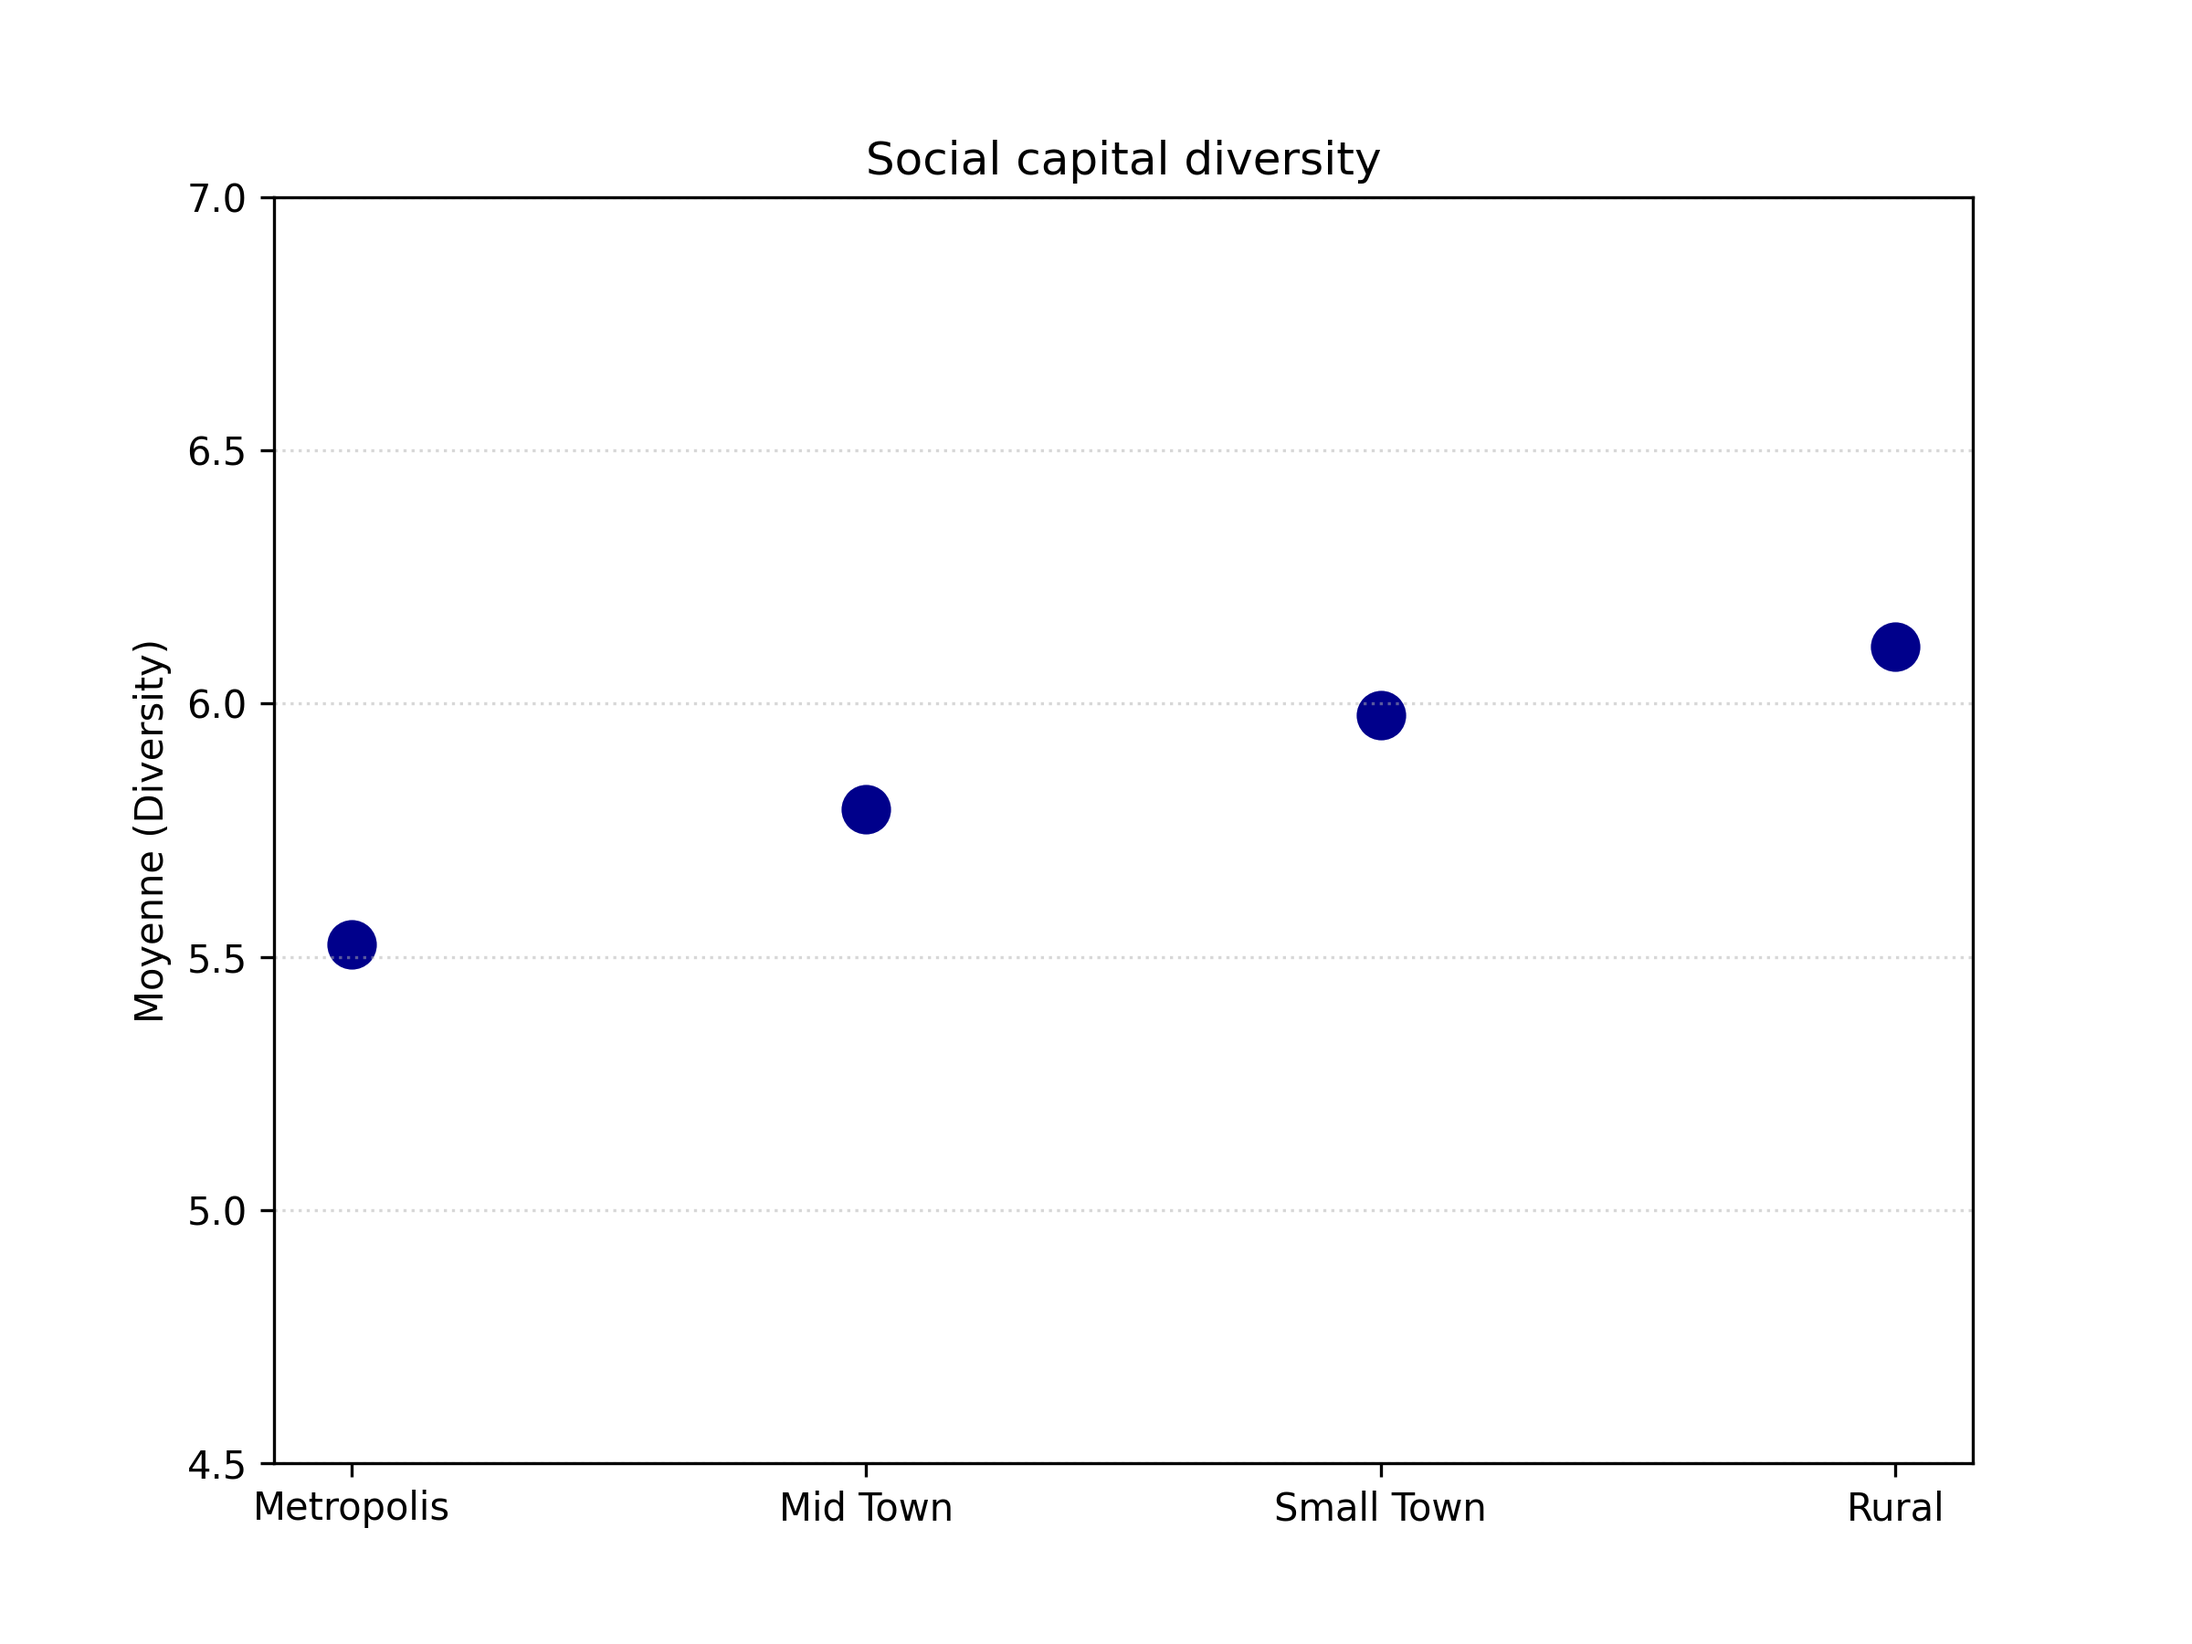
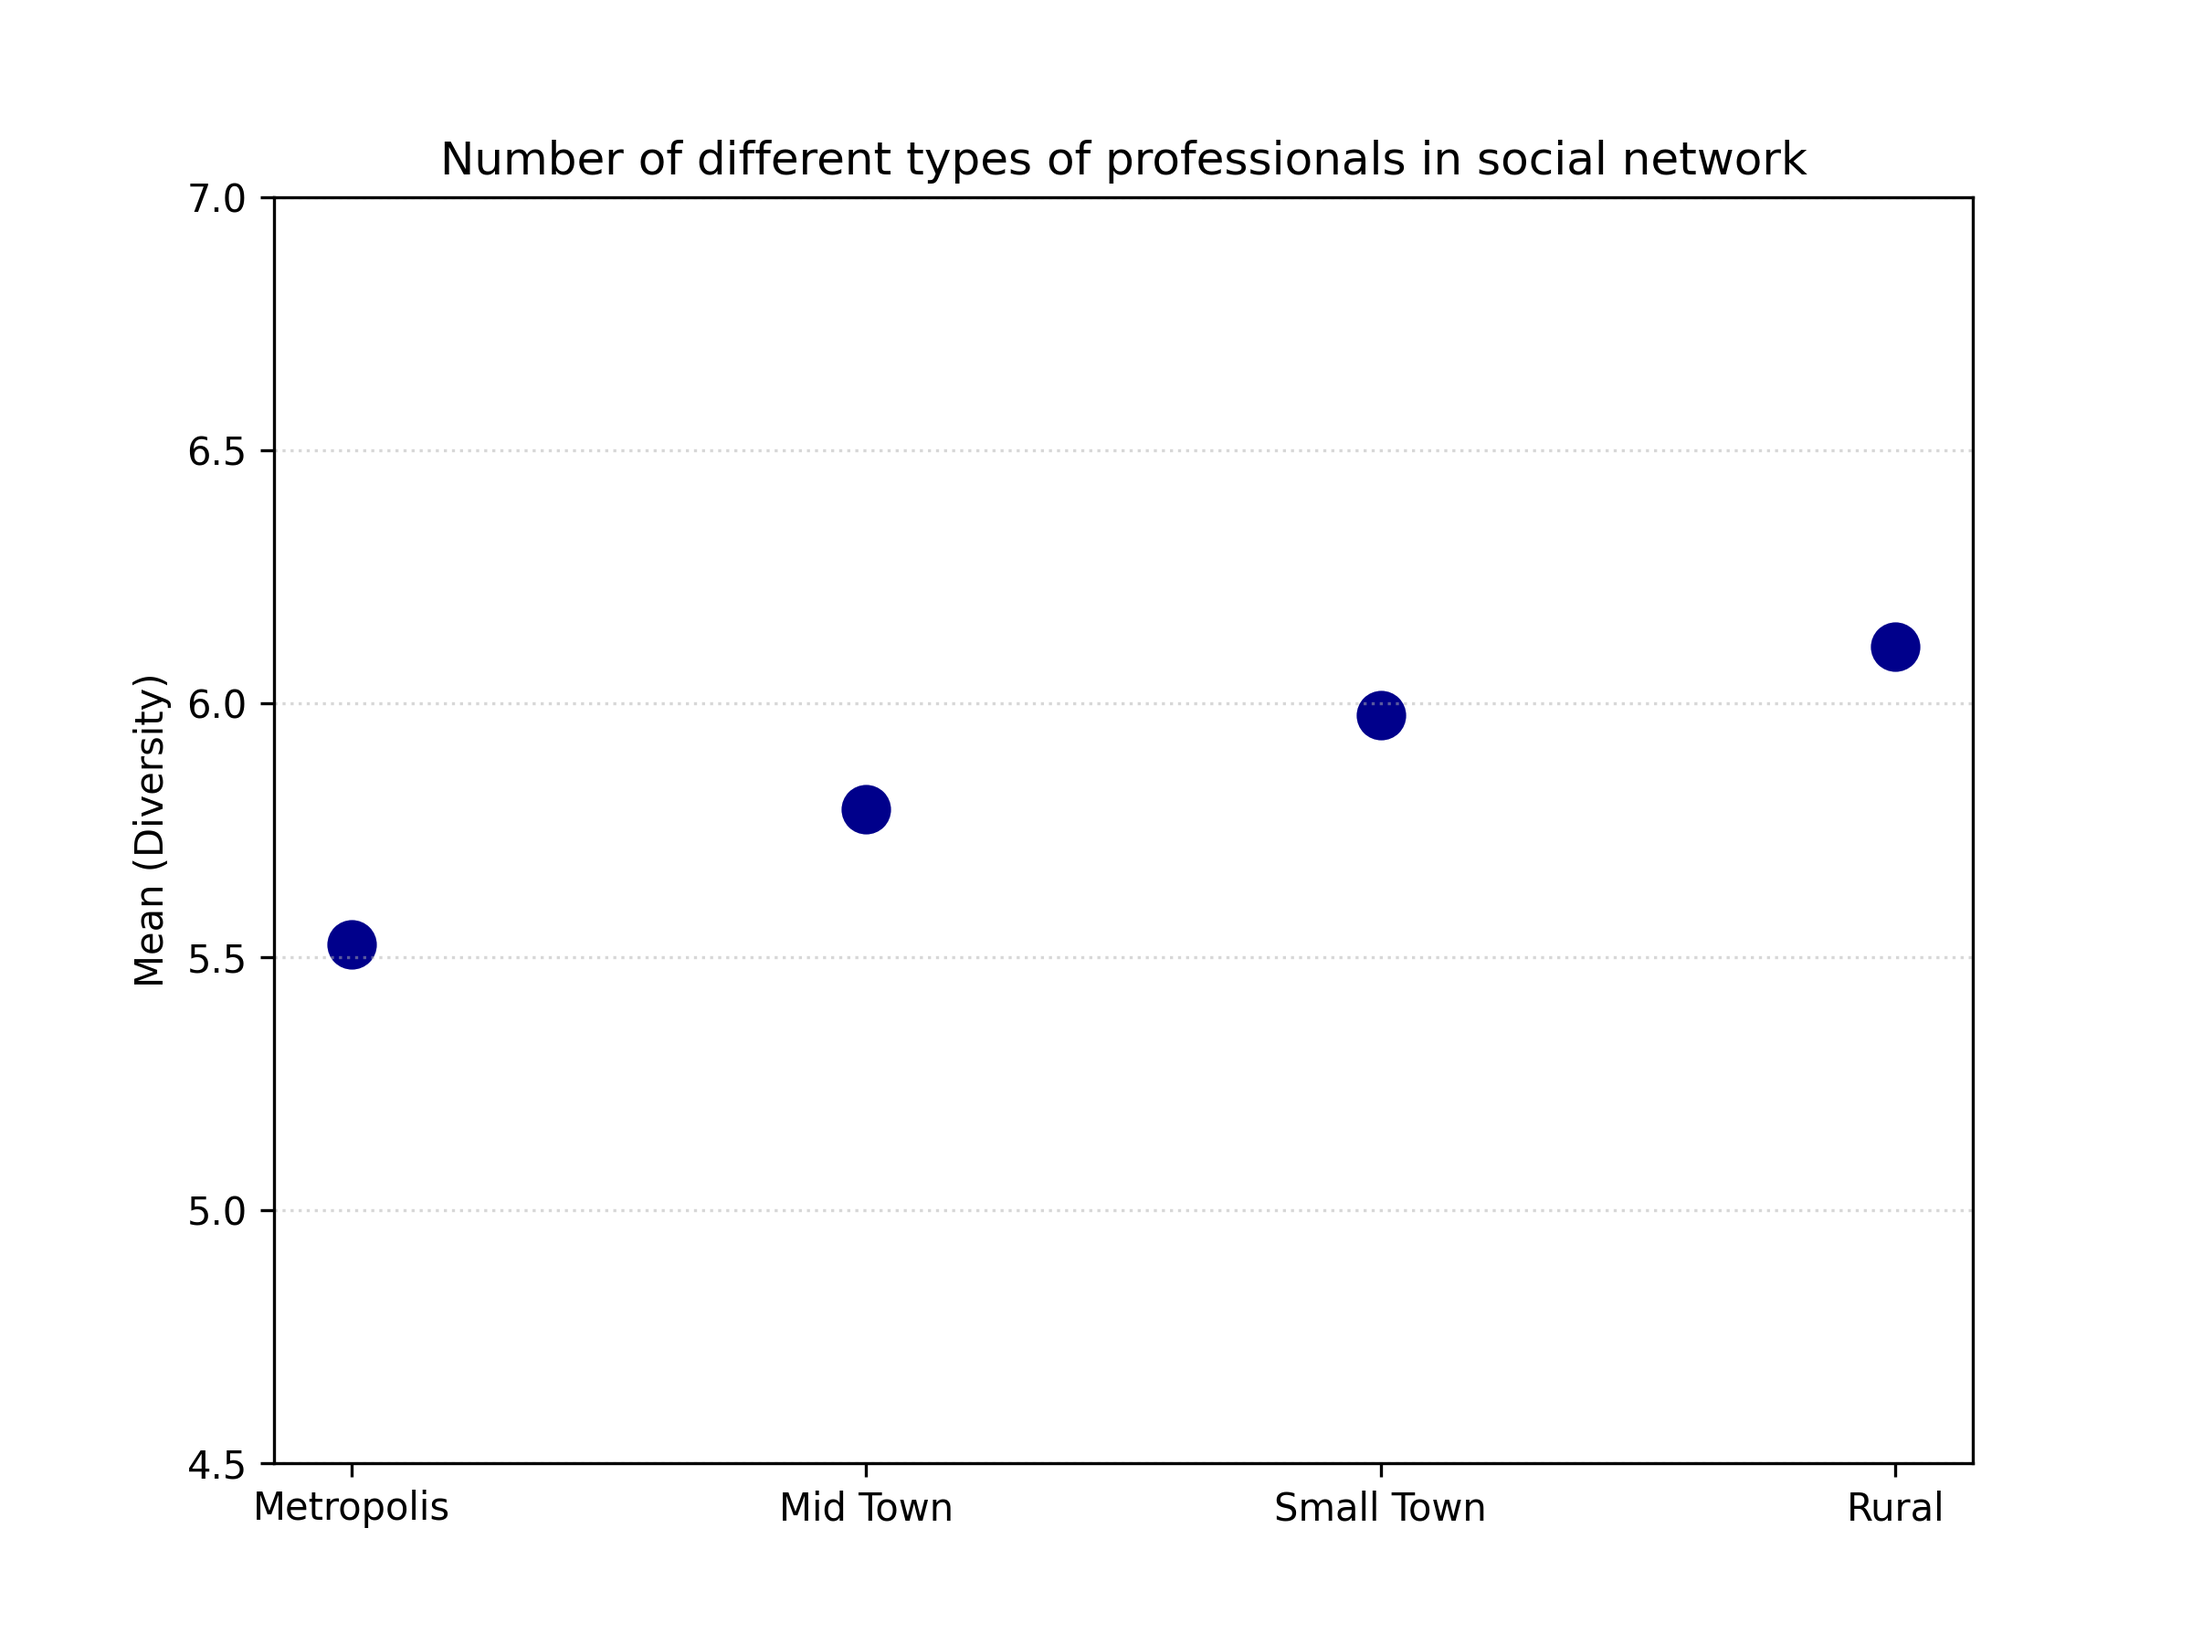
commit

Changed region(s): [[0.1875, 0.0933, 0.8125, 0.1244], [0.0625, 0.4044, 0.0938, 0.6222]]

diff --git a/Code/graph/social_capital_position.py b/Code/graph/social_capital_position.py
@@ -36,8 +36,30 @@ has_link = capsoc[professions].isin([1, 2, 3])
 capsoc['pg_diversity'] = has_link.sum(axis=1)
 
 # B. Upper Reachability : Somme pour les colonnes spécifiques (02, 05, 06)
-upper_cols = ["csoc_Q01_02", "csoc_Q01_05", "csoc_Q01_06"]
-capsoc['pg_upper'] = capsoc[upper_cols].isin([1, 2, 3]).sum(axis=1)
+prestige_scores = {
+    "csoc_Q01_02": 10, # Cadre
+    "csoc_Q01_06": 10, # Avocat
+    "csoc_Q01_05": 8,  # RH
+    "csoc_Q01_10": 7,  # Enseignant
+    "csoc_Q01_08": 6,  # Infirmier
+    "csoc_Q01_09": 5,  # Policier
+    "csoc_Q01_07": 4,  # Mécanicien
+    "csoc_Q01_04": 4,  # Coiffeur
+    "csoc_Q01_01": 3,  # Chauffeur
+    "csoc_Q01_03": 2,  # Agent d'entretien
+    "csoc_Q01_10": 5   # Assistant social (estimation)
+}
+
+# On crée des colonnes temporaires pour chaque score
+temp_cols = []
+for col, score in prestige_scores.items():
+    temp_col_name = f"val_{col}"
+    # Si le répondant connaît (1), il reçoit le score, sinon 0
+    capsoc[temp_col_name] = np.where(capsoc[col] == 1, score, 0)
+    temp_cols.append(temp_col_name)
+
+# LA VARIABLE FINALE : Le maximum atteint parmi toutes les connaissances
+capsoc['pg_upper'] = capsoc[temp_cols].max(axis=1)
 
 # C. Range (Max - Min)
 # On remplace les False par NaN pour que min/max ne prennent en compte que les liens réels
@@ -76,8 +98,8 @@ sns.scatterplot(x='habitat_cat', y='pg_diversity', data=df_means, s=200, color='
 
 plt.ylim(4.5, 7)
 
-plt.title('Social')
-plt.ylabel('Moyenne (Diversity)')
+plt.title('Number of different types of professionals in social network')
+plt.ylabel('Mean (Diversity)')
 plt.xlabel('')
 plt.grid(axis='y', linestyle=':', alpha=0.5)
 
@@ -93,7 +115,6 @@ df_means_upper = df_means_upper.sort_values('habitat_cat')
 plt.figure(figsize=(8, 6))
 sns.scatterplot(x='habitat_cat', y='pg_upper', data=df_means_upper, s=200, color='darkred') # Rouge pour le prestige
 
-plt.ylim(0.5, 2.0) # Échelle adaptée au score max de 3
 
 plt.title('Upper Reachability by location type (mean)')
 plt.ylabel('Mean (Upper Reach)')

diff --git a/Code/graph/Generating_graphs_knows.py b/Code/graph/Generating_graphs_knows.py
@@ -67,3 +67,25 @@ for title, mask in masks.items():
     #plt.show()
 
     plt.savefig(f'outputs/histograms_knows/total_social_capital_{title.lower().replace(" ", "_")}.png')
+
+
+
+# On définit les nouvelles variables
+vars_knows = ['knows_fam', 'knows_friends', 'knows_neighbors', 'knows_colleagues']
+
+# On crée la colonne du total "connaissances"
+# Note : Vérifie si ces variables sont numériques (0, 1, 2...) ou catégorielles (1, 2, 3...)
+capsoc['total_knows_size'] = capsoc[vars_knows].sum(axis=1)
+
+print("Statistiques du réseau de connaissances (Mode/Médiane) :")
+print("-" * 55)
+
+for title, mask in masks.items():
+    subset = capsoc[mask]
+    if not subset.empty:
+        # Calcul du mode (valeur la plus fréquente)
+        mode_val = subset['total_knows_size'].mode()[0]
+        # Calcul de la médiane (valeur centrale)
+        median_val = subset['total_knows_size'].median()
+        
+        print(f"{title:12} | Mode : {mode_val:3.0f} | Médiane : {median_val:3.0f}")

diff --git a/Code/graph/Generating_graphs_close.py b/Code/graph/Generating_graphs_close.py
@@ -17,8 +17,9 @@ masks = {
 vars_to_plot = ['close_fam', 'close_friends', 'close_neighbors', 'close_colleagues']
 labels_network = ['Family', 'Friends', 'Neighbours', 'Colleagues']
 colors = ['r', 'g', 'b', 'y']
-# L'index cible (Catégories de 1 à 7)
+density_colors = {'Rural': '#fde725', 'Small Town': '#35b779', 'Mid Town': '#31688e', 'Metropolis': '#440154'}
 full_index = np.arange(1, 8) 
+
 
 # 2. Fonction pour traiter un subset et retourner les données prêtes pour le plot
 def get_plot_data(subset):
@@ -67,3 +68,4 @@ for title, mask in masks.items():
 
     plt.savefig(f'outputs/histograms_close/social_capital_{title.lower().replace(" ", "_")}.png')
     
+
